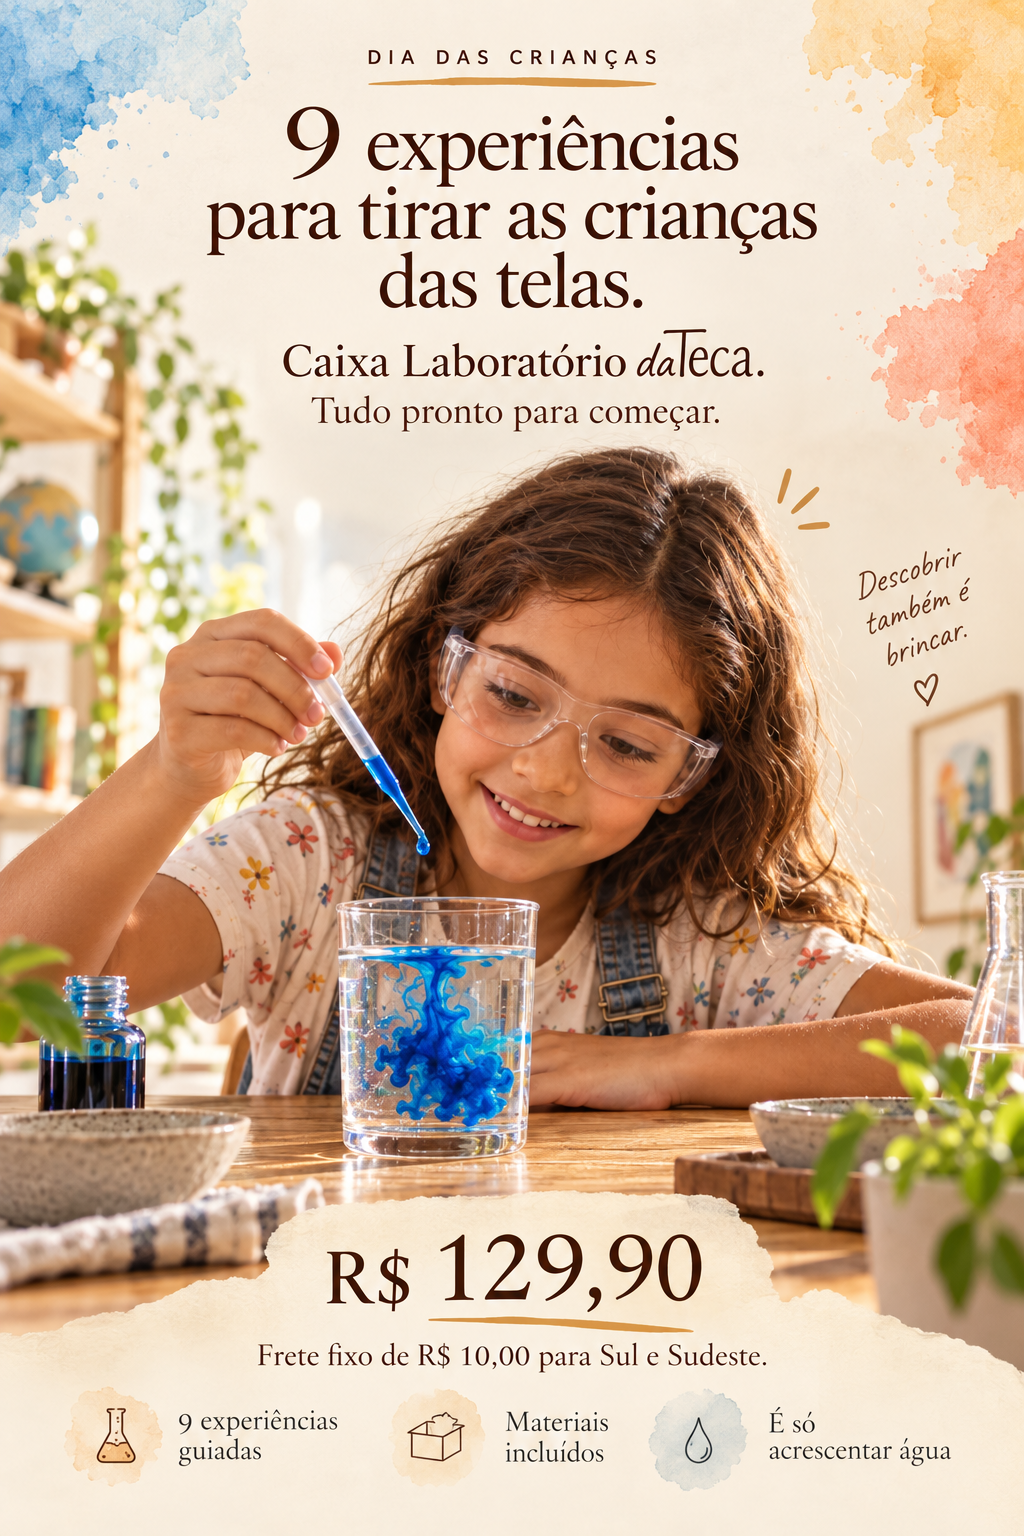
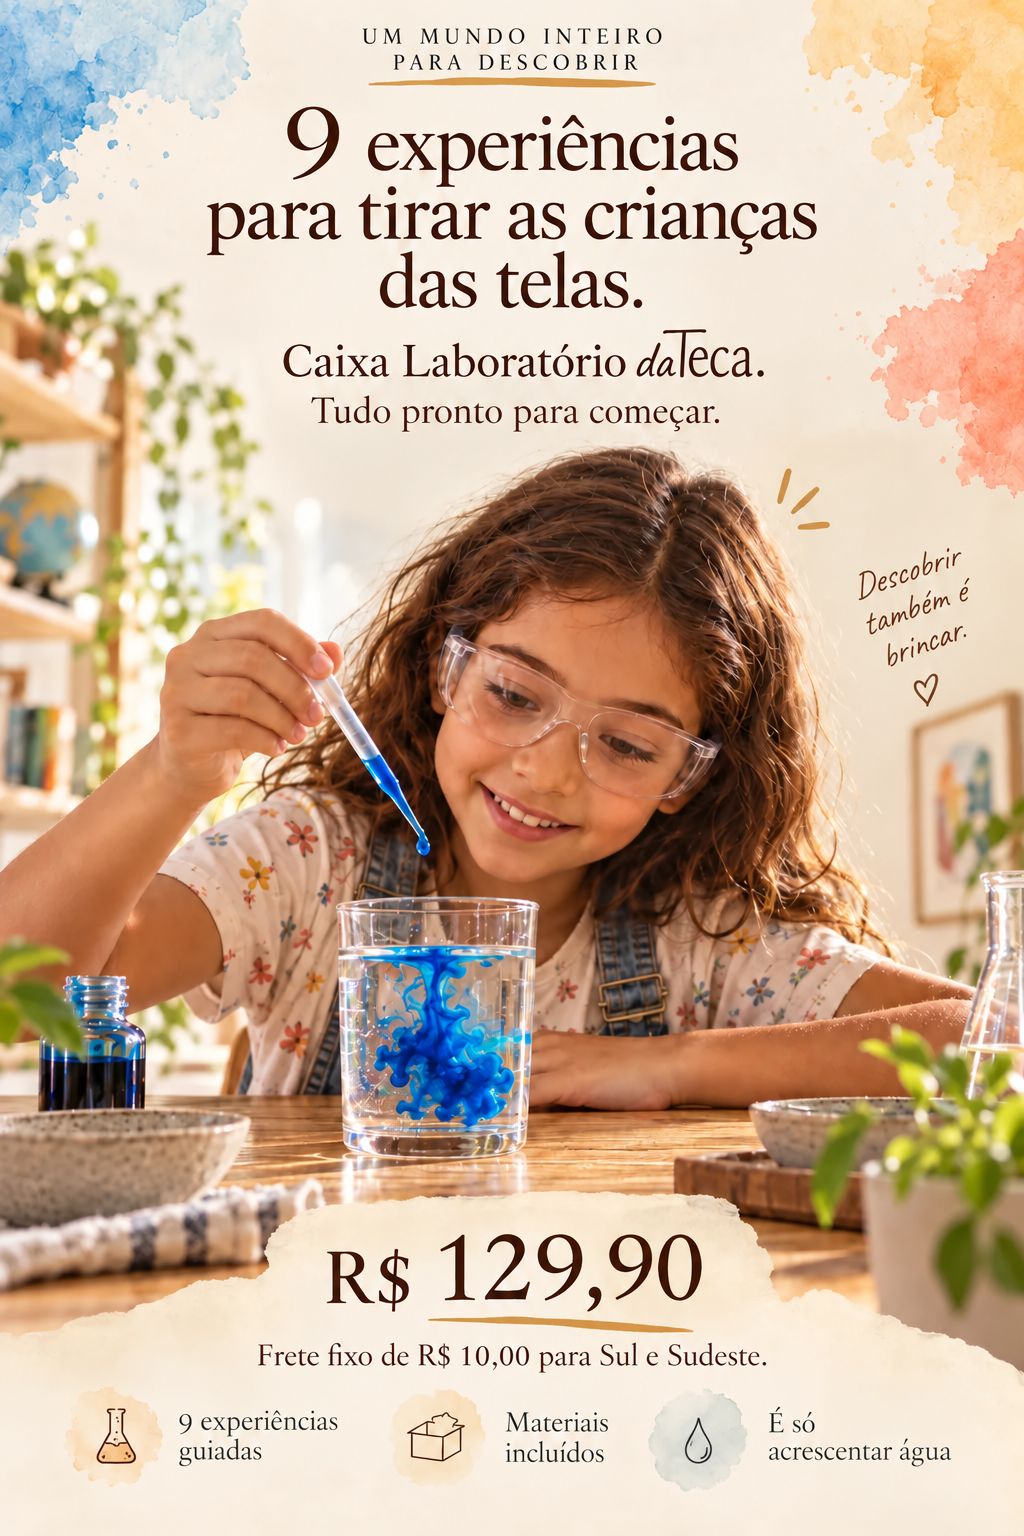
Atualiza artes de abertura e pôster da Caixa Laboratório.
Regenera WebPs e muda o cache da landing para as imagens novas.

diff --git a/src/pages/CaixaLaboratorio/caixaLaboratorioData.ts b/src/pages/CaixaLaboratorio/caixaLaboratorioData.ts
@@ -8,7 +8,7 @@ const IMG = "/images/caixa-laboratorio"
  * Subir este valor sempre que trocar os WebPs da landing.
  * Evita cache do CDN/navegador servir a imagem antiga sob o mesmo nome.
  */
-export const CAIXA_IMAGE_VERSION = "20260922aa"
+export const CAIXA_IMAGE_VERSION = "20261004a"
 
 function caixaImg(fileName: string): string {
   return `${IMG}/${fileName}?v=${CAIXA_IMAGE_VERSION}`
